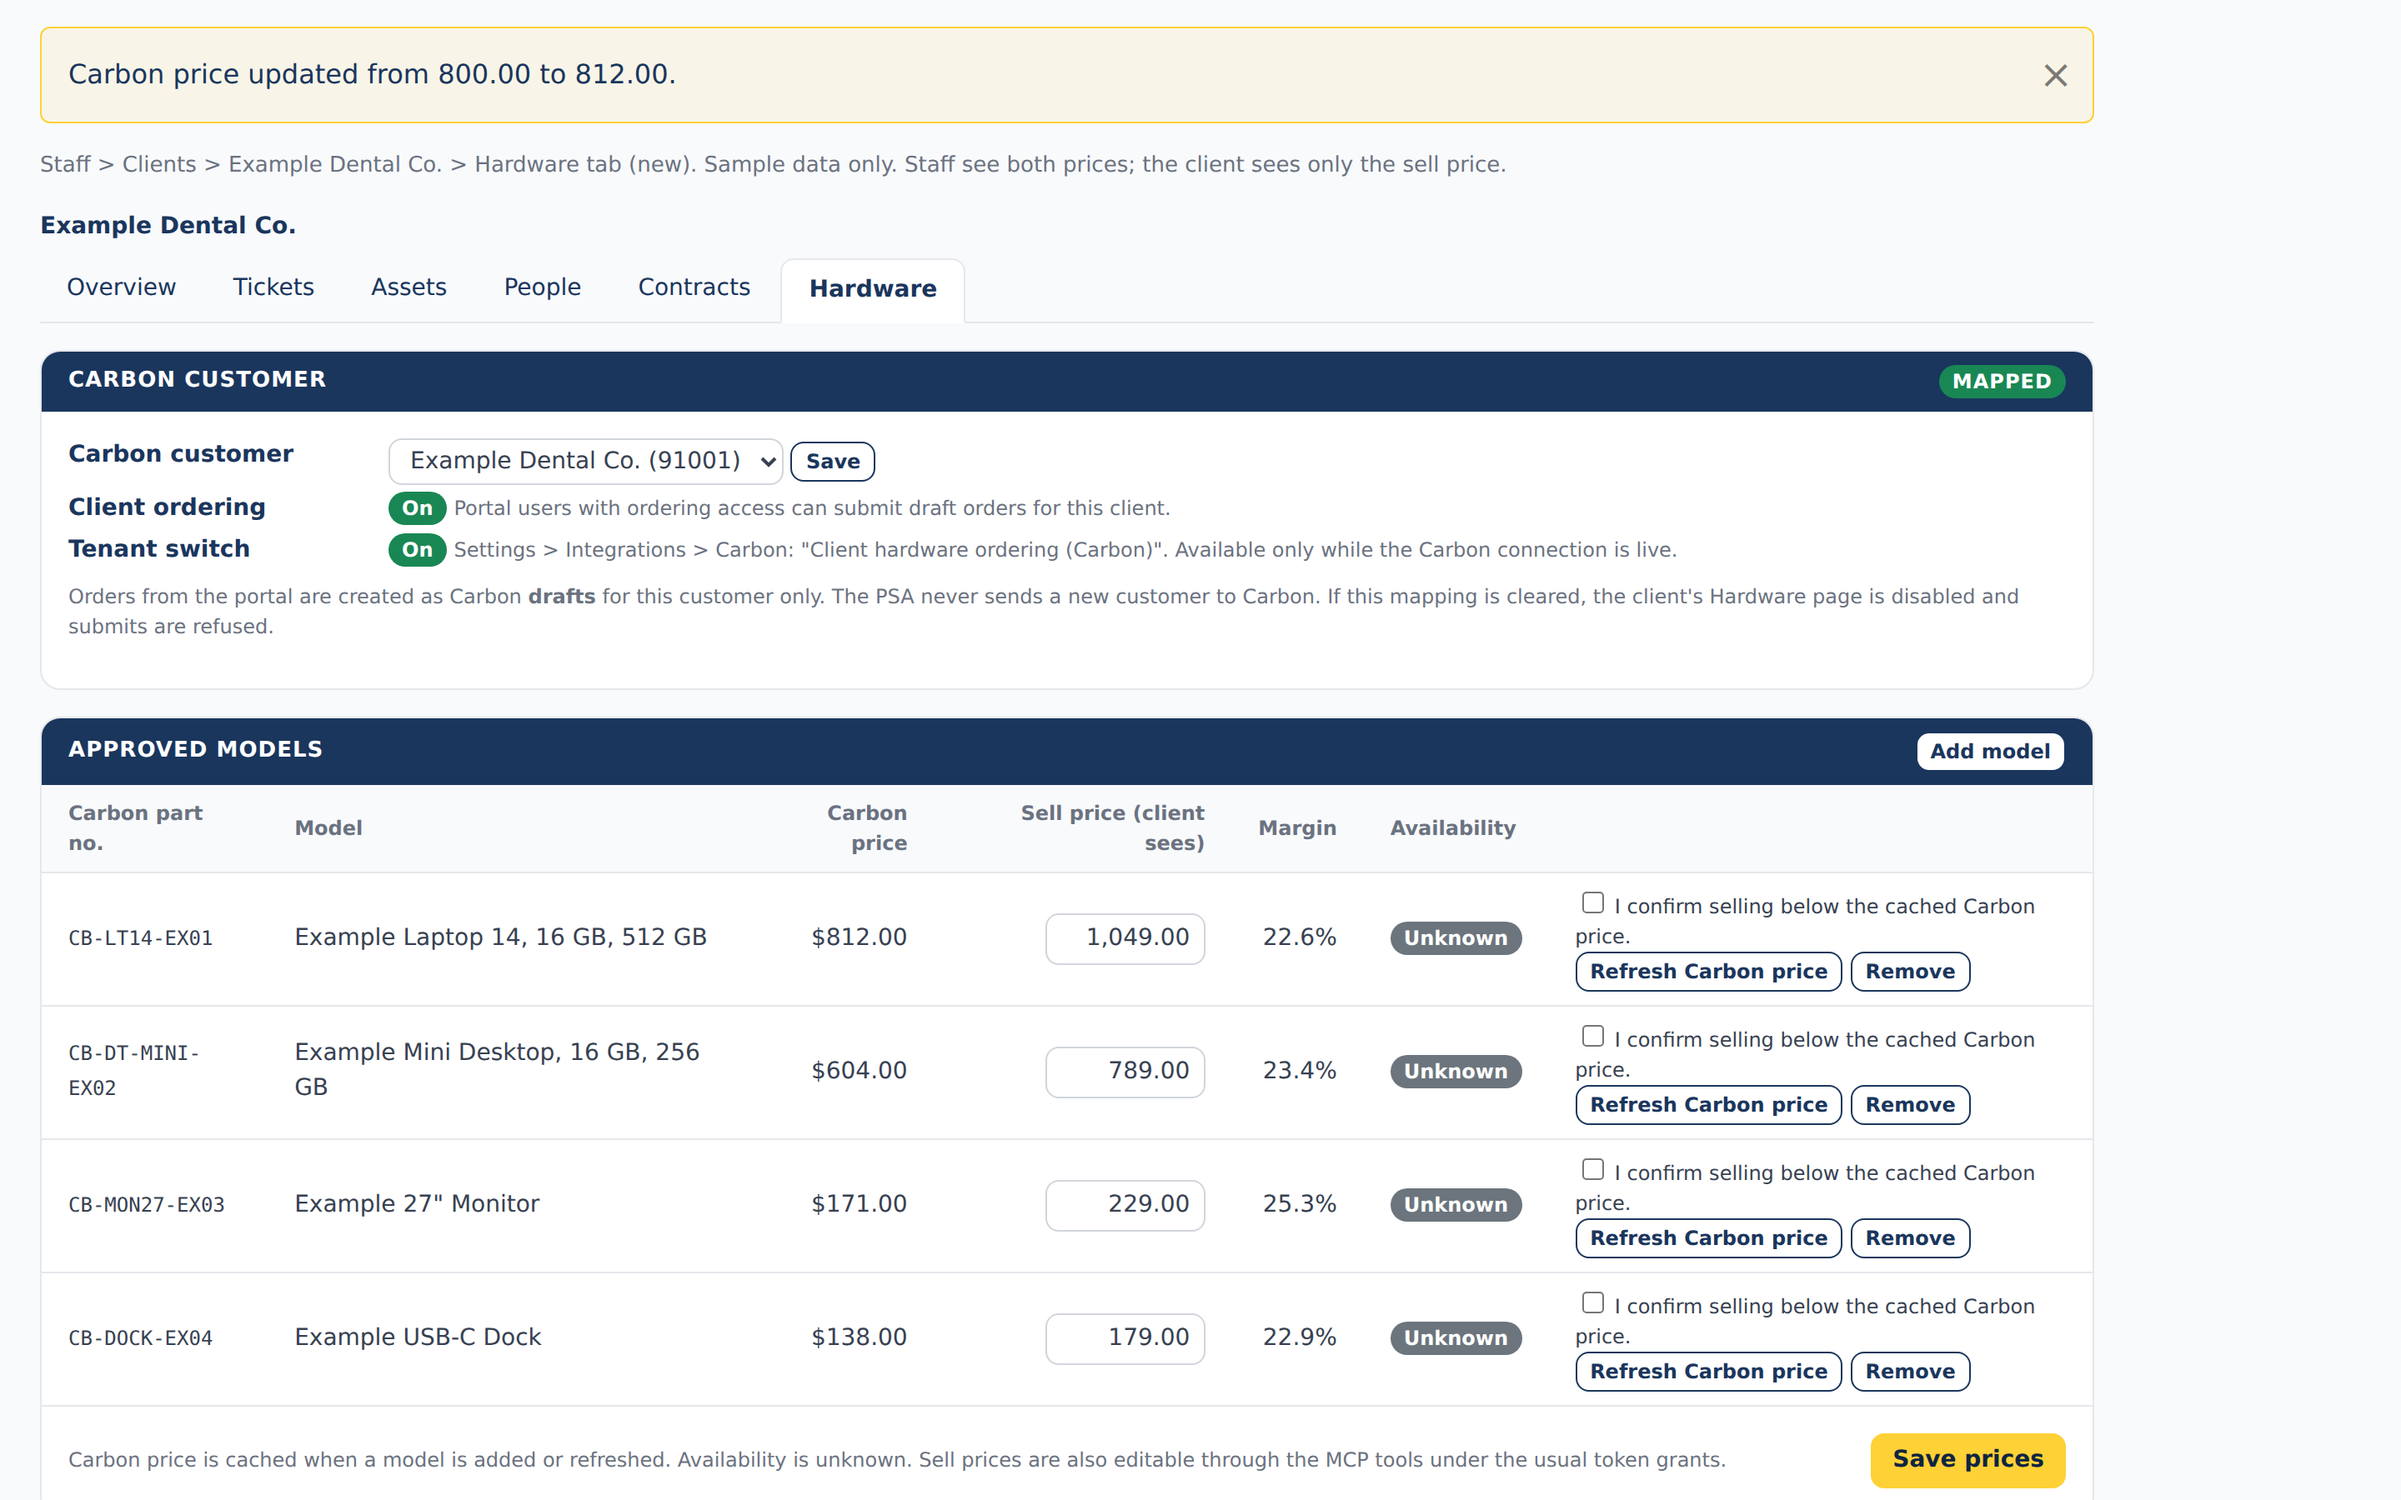
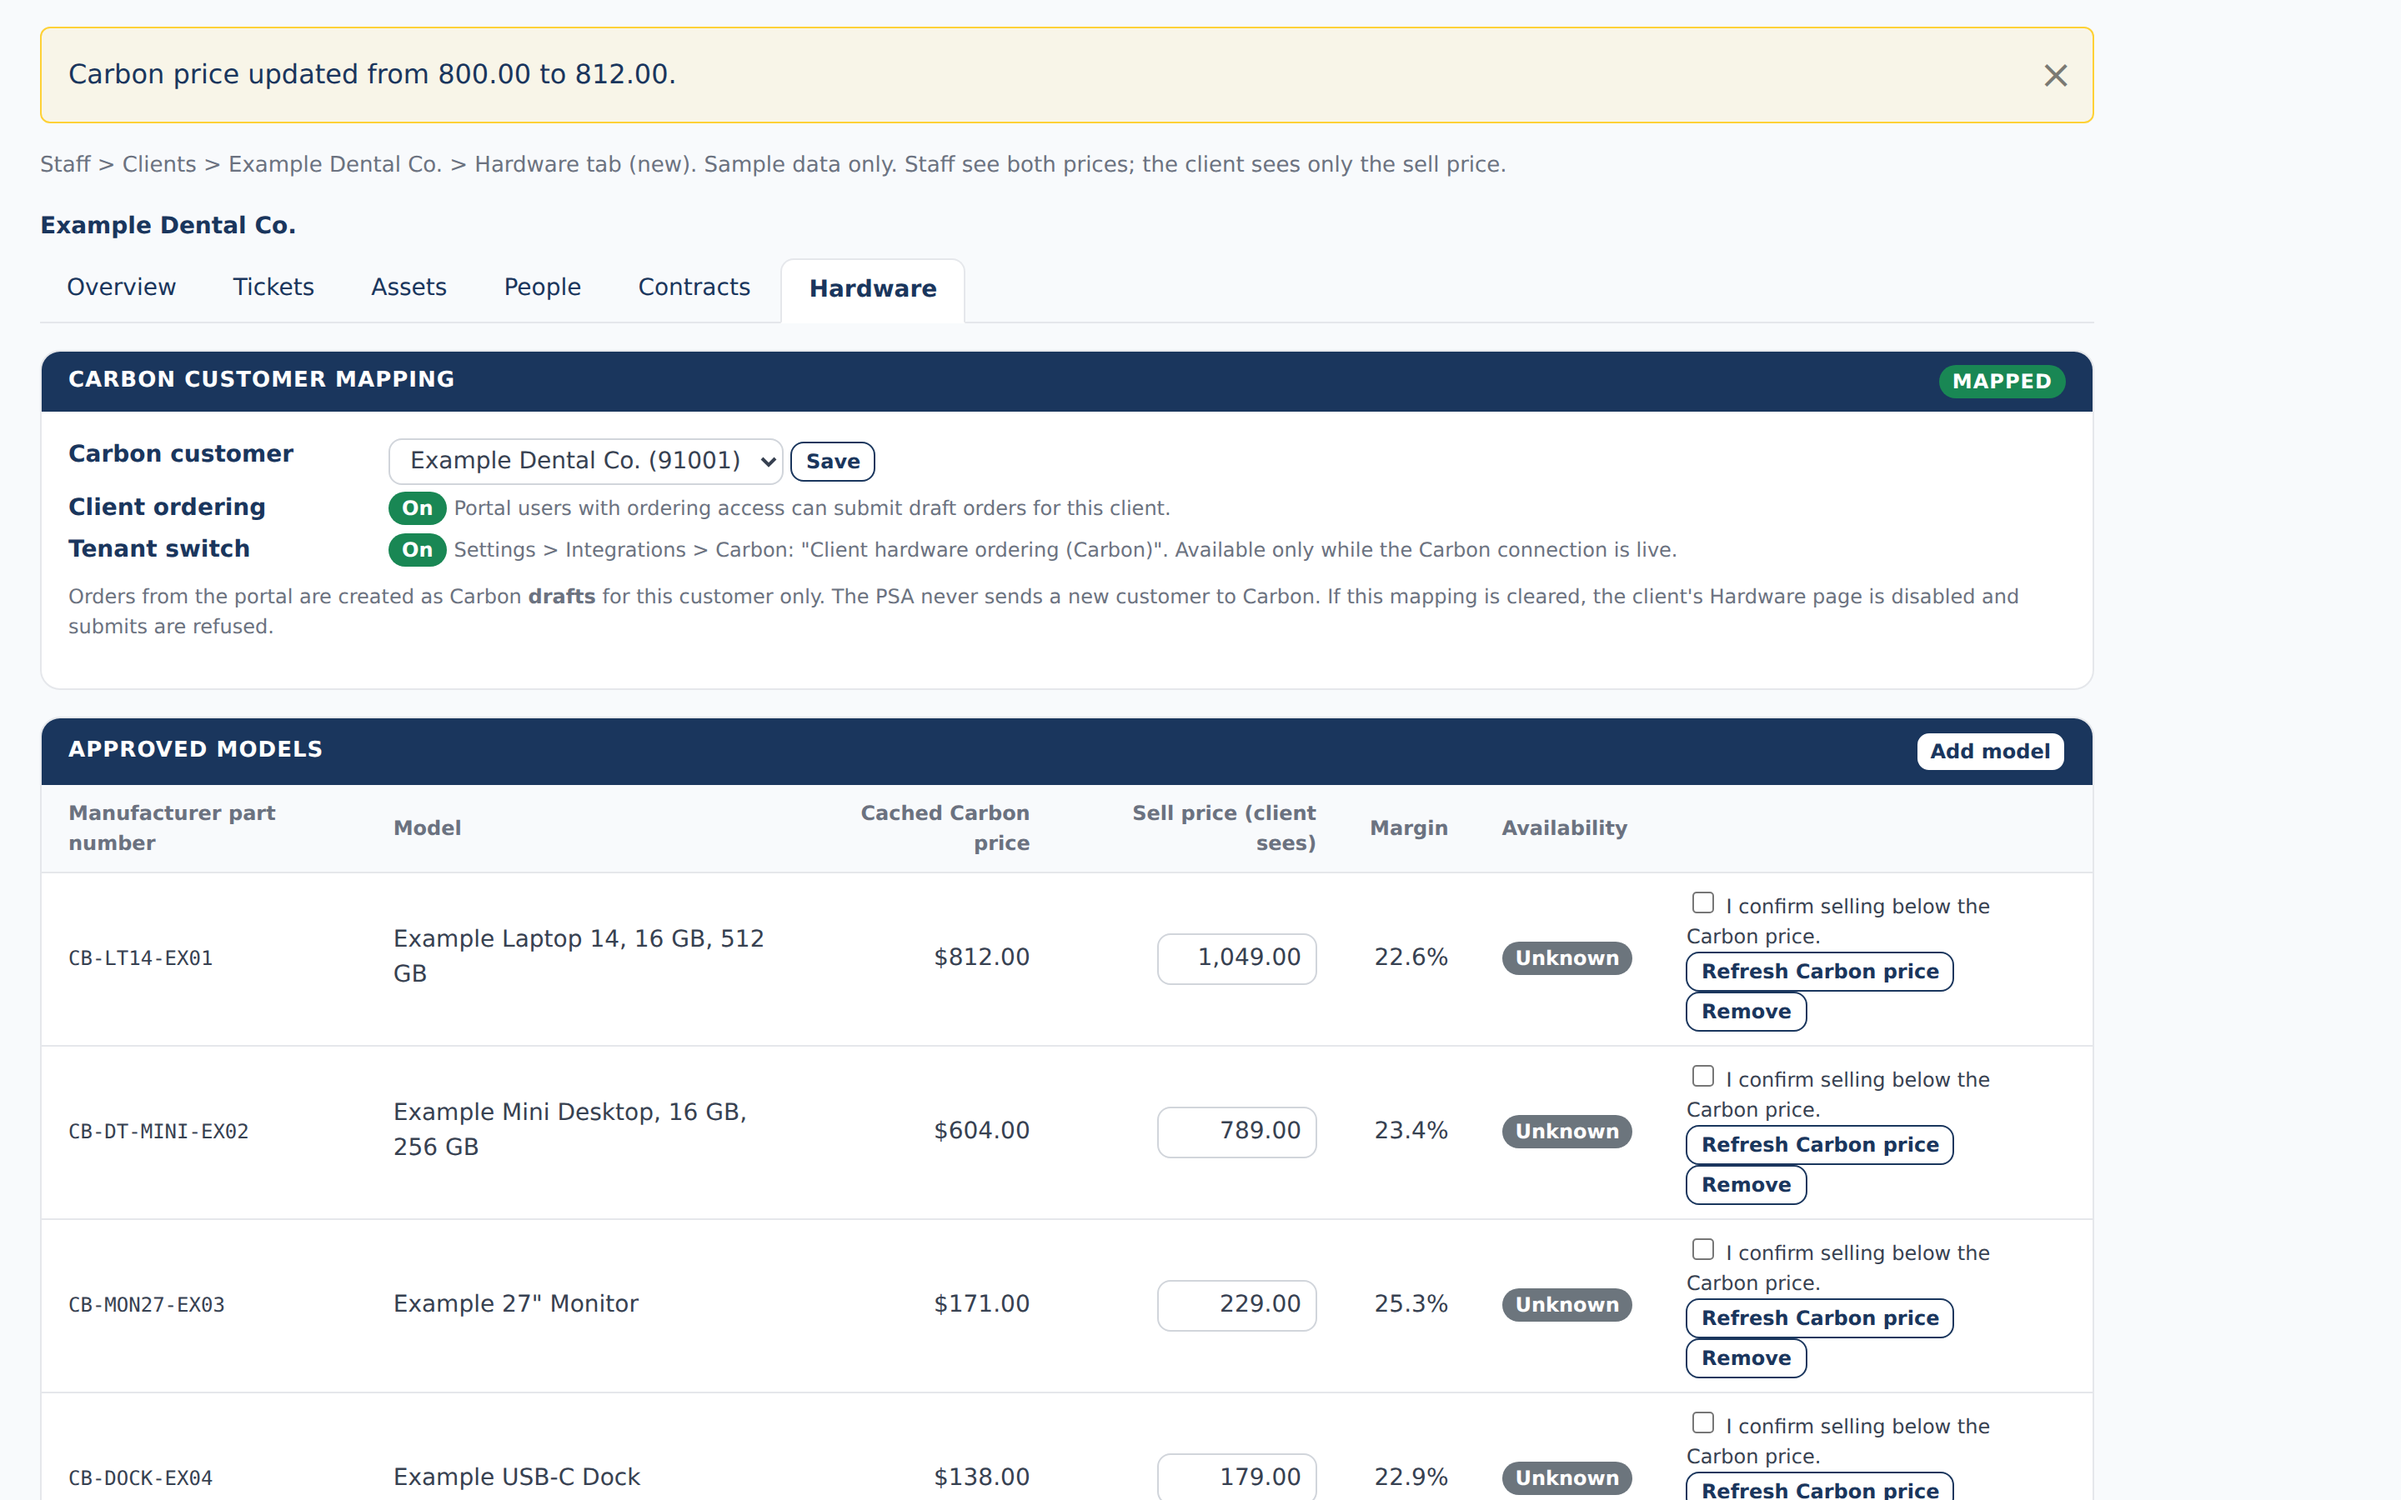
fix(carbon): correct fixture comment and confirm strings per ruling (#8394 r2 A)
Jeeves 11:25Z 11/15 on IDEPcEPa: the refresh test comment named the wrong
fixture source; confirm/margin_confirm no longer say "cached" because refresh
compares against the new Carbon cost. Mockup checkbox line and three labels
match the build; PNG re-rendered.

diff --git a/design/mockups/hardware/staff-approved-list.html b/design/mockups/hardware/staff-approved-list.html
@@ -14,7 +14,7 @@
 <h4>Example Dental Co.</h4>
 <div class="tabs"><span>Overview</span><span>Tickets</span><span>Assets</span><span>People</span><span>Contracts</span><span class="on">Hardware</span></div>
 
-<div class="card"><div class="card-header"><span>Carbon customer</span><span class="badge b-ok">Mapped</span></div>
+<div class="card"><div class="card-header"><span>Carbon customer mapping</span><span class="badge b-ok">Mapped</span></div>
 <div class="card-body">
 <dl>
 <dt>Carbon customer</dt><dd><select><option>Example Dental Co. (91001)</option></select> <button class="btn btn-sm" type="button">Save</button></dd>
@@ -26,12 +26,12 @@
 
 <div class="card"><div class="card-header"><span>Approved models</span><button class="btn btn-sm" type="button" style="background:var(--psa-colors-surface)">Add model</button></div>
 <table>
-<thead><tr><th>Carbon part no.</th><th>Model</th><th class="num">Carbon price</th><th class="num">Sell price (client sees)</th><th class="num">Margin</th><th>Availability</th><th></th></tr></thead>
+<thead><tr><th>Manufacturer part number</th><th>Model</th><th class="num">Cached Carbon price</th><th class="num">Sell price (client sees)</th><th class="num">Margin</th><th>Availability</th><th></th></tr></thead>
 <tbody>
-<tr><td><code>CB-LT14-EX01</code></td><td>Example Laptop 14, 16 GB, 512 GB</td><td class="num">$812.00</td><td class="num"><input class="qty" style="width:96px" value="1,049.00"></td><td class="num">22.6%</td><td><span class="badge b-off">Unknown</span></td><td><label class="small" style="display:block"><input type="checkbox"> I confirm selling below the cached Carbon price.</label><button class="btn btn-sm" type="button">Refresh Carbon price</button> <button class="btn btn-sm" type="button">Remove</button></td></tr>
-<tr><td><code>CB-DT-MINI-EX02</code></td><td>Example Mini Desktop, 16 GB, 256 GB</td><td class="num">$604.00</td><td class="num"><input class="qty" style="width:96px" value="789.00"></td><td class="num">23.4%</td><td><span class="badge b-off">Unknown</span></td><td><label class="small" style="display:block"><input type="checkbox"> I confirm selling below the cached Carbon price.</label><button class="btn btn-sm" type="button">Refresh Carbon price</button> <button class="btn btn-sm" type="button">Remove</button></td></tr>
-<tr><td><code>CB-MON27-EX03</code></td><td>Example 27" Monitor</td><td class="num">$171.00</td><td class="num"><input class="qty" style="width:96px" value="229.00"></td><td class="num">25.3%</td><td><span class="badge b-off">Unknown</span></td><td><label class="small" style="display:block"><input type="checkbox"> I confirm selling below the cached Carbon price.</label><button class="btn btn-sm" type="button">Refresh Carbon price</button> <button class="btn btn-sm" type="button">Remove</button></td></tr>
-<tr><td><code>CB-DOCK-EX04</code></td><td>Example USB-C Dock</td><td class="num">$138.00</td><td class="num"><input class="qty" style="width:96px" value="179.00"></td><td class="num">22.9%</td><td><span class="badge b-off">Unknown</span></td><td><label class="small" style="display:block"><input type="checkbox"> I confirm selling below the cached Carbon price.</label><button class="btn btn-sm" type="button">Refresh Carbon price</button> <button class="btn btn-sm" type="button">Remove</button></td></tr>
+<tr><td><code>CB-LT14-EX01</code></td><td>Example Laptop 14, 16 GB, 512 GB</td><td class="num">$812.00</td><td class="num"><input class="qty" style="width:96px" value="1,049.00"></td><td class="num">22.6%</td><td><span class="badge b-off">Unknown</span></td><td><label class="small" style="display:block"><input type="checkbox"> I confirm selling below the Carbon price.</label><button class="btn btn-sm" type="button">Refresh Carbon price</button> <button class="btn btn-sm" type="button">Remove</button></td></tr>
+<tr><td><code>CB-DT-MINI-EX02</code></td><td>Example Mini Desktop, 16 GB, 256 GB</td><td class="num">$604.00</td><td class="num"><input class="qty" style="width:96px" value="789.00"></td><td class="num">23.4%</td><td><span class="badge b-off">Unknown</span></td><td><label class="small" style="display:block"><input type="checkbox"> I confirm selling below the Carbon price.</label><button class="btn btn-sm" type="button">Refresh Carbon price</button> <button class="btn btn-sm" type="button">Remove</button></td></tr>
+<tr><td><code>CB-MON27-EX03</code></td><td>Example 27" Monitor</td><td class="num">$171.00</td><td class="num"><input class="qty" style="width:96px" value="229.00"></td><td class="num">25.3%</td><td><span class="badge b-off">Unknown</span></td><td><label class="small" style="display:block"><input type="checkbox"> I confirm selling below the Carbon price.</label><button class="btn btn-sm" type="button">Refresh Carbon price</button> <button class="btn btn-sm" type="button">Remove</button></td></tr>
+<tr><td><code>CB-DOCK-EX04</code></td><td>Example USB-C Dock</td><td class="num">$138.00</td><td class="num"><input class="qty" style="width:96px" value="179.00"></td><td class="num">22.9%</td><td><span class="badge b-off">Unknown</span></td><td><label class="small" style="display:block"><input type="checkbox"> I confirm selling below the Carbon price.</label><button class="btn btn-sm" type="button">Refresh Carbon price</button> <button class="btn btn-sm" type="button">Remove</button></td></tr>
 </tbody></table>
 <div class="card-body" style="display:flex;justify-content:space-between;align-items:center">
 <span class="note" style="margin:0">Carbon price is cached when a model is added or refreshed. Availability is unknown. Sell prices are also editable through the MCP tools under the usual token grants.</span>

diff --git a/lang/en/carbon_hardware.php b/lang/en/carbon_hardware.php
@@ -34,7 +34,7 @@ return [
     'unmapped' => 'Map an existing Carbon customer before maintaining this approved list.',
     'unconfirmed' => "couldn't confirm this part is a plain part or a saved fixed build",
     'not_active' => "Carbon doesn't list this part as active",
-    'margin_confirm' => 'Confirm the sell price below the cached Carbon price to save.',
+    'margin_confirm' => 'The sell price is below the Carbon price. Confirm to continue.',
     'margin_warning' => 'The cached Carbon price is at or above the sell price. Review pricing.',
     'unknown' => 'Unknown',
     'failed' => 'Carbon lookup failed. Try again later.',
@@ -59,7 +59,7 @@ return [
     'availability' => 'Availability',
     'add' => 'Add model',
     'remove' => 'Remove',
-    'confirm' => 'I confirm selling below the cached Carbon price.',
+    'confirm' => 'I confirm selling below the Carbon price.',
     'empty' => 'No approved models.',
     'portal_empty' => 'No hardware is approved for your organization yet. Open a ticket if you need hardware.',
     'customer_invalid' => 'Choose an existing customer from the Carbon list.',

diff --git a/tests/Feature/Carbon/CarbonHardwareRefreshTest.php b/tests/Feature/Carbon/CarbonHardwareRefreshTest.php
@@ -303,7 +303,7 @@ class CarbonHardwareRefreshTest extends TestCase
         $this->assertSame(['price_moved'], $reasons);
         $this->assertDatabaseCount('client_hardware_orders', 0);
         $this->refresh($model);
-        // Synthetic confirmation shape used by CarbonPortalHardwareTest, from the captured draft contract.
+        // Synthetic confirmation shape, as in CarbonSavedBuildTest; not a captured draft response.
         $this->carbonCallResult = ['structuredContent' => ['confirmationCode' => 'SYNTH-REFRESH-ORDER']];
         $order = app(\App\Services\Carbon\CarbonHardwareOrderService::class)->submit($person, $input);
         $this->assertSame('submitted', $order->status);
